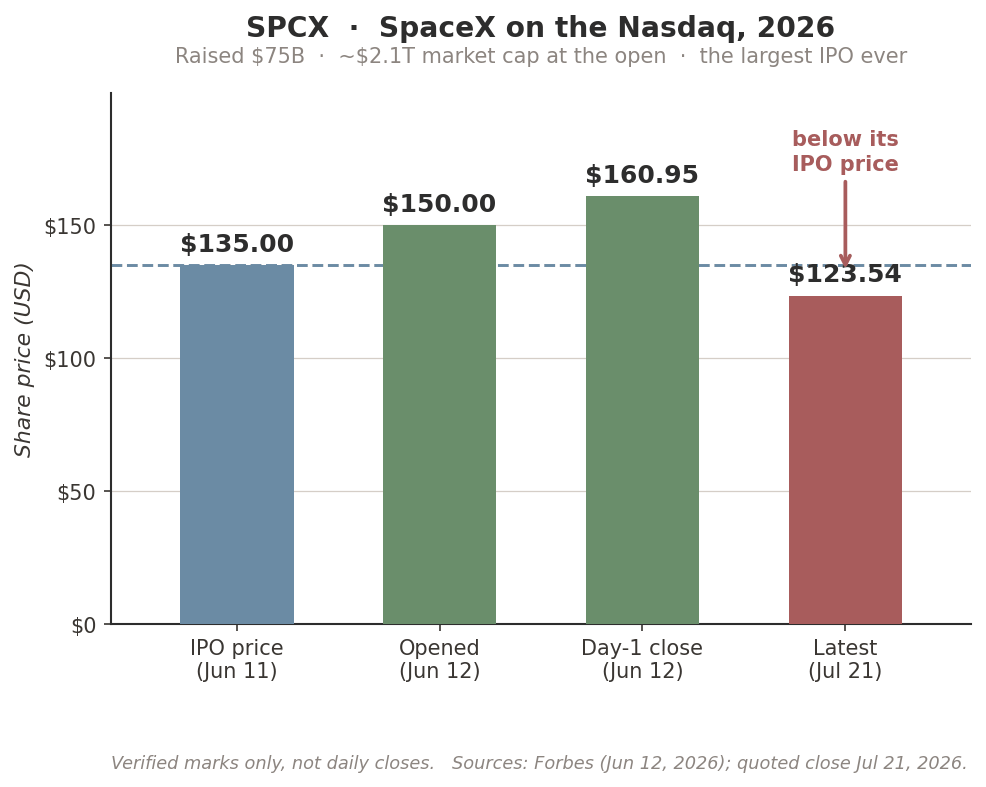
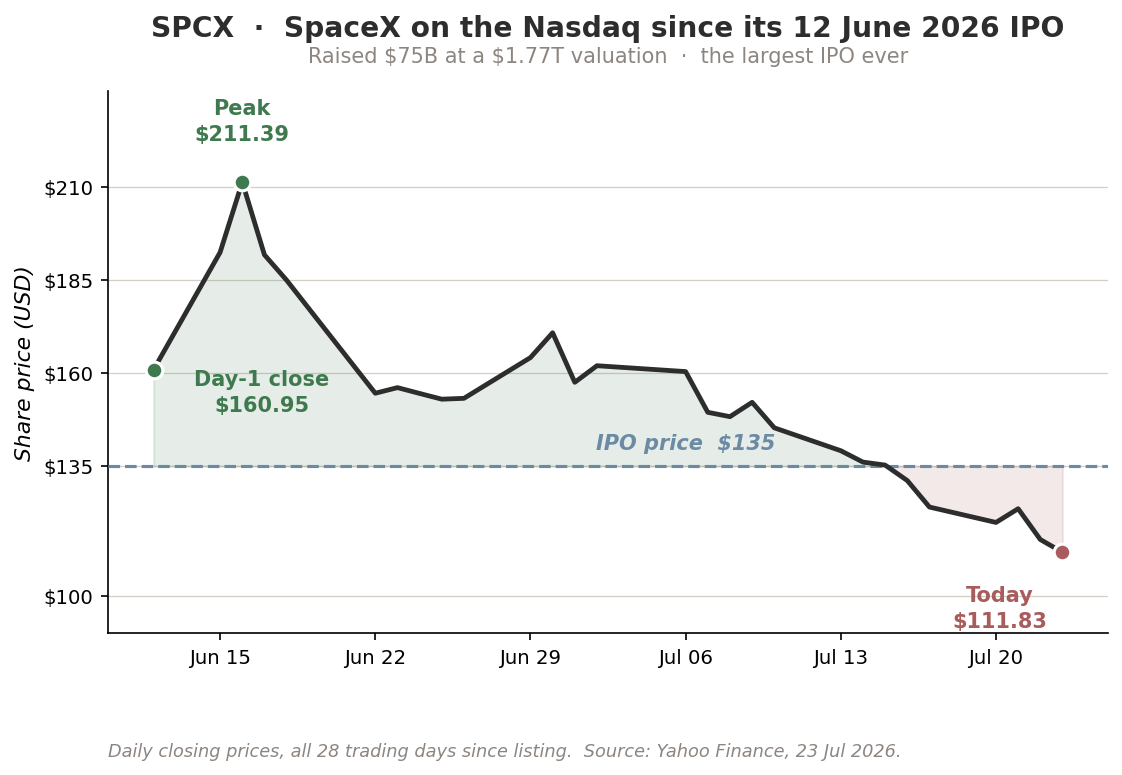
ch08: replace the SPCX four-bar summary with a real daily-close line chart covering all 28 trading days since the 12 Jun 2026 IPO (Yahoo Finance); update slide numbers to the 23 Jul close

diff --git a/econ2316/ch08-costs-of-production/index.html b/econ2316/ch08-costs-of-production/index.html
@@ -3353,9 +3353,9 @@
 <!-- 4 · SpaceX IPO — UPDATED: it happened, June 2026 -->
 <section id="fyi-spacex-ipo">
   <h2><i class="fa-solid fa-rocket" style="color: var(--secondary-color);"></i> SpaceX Went Public &mdash; June 2026 <span style="display: inline-block; padding: 0 6px; border-radius: 4px; background: var(--muted-color); color: #ffffff; font-size: 9pt; font-weight: 700; letter-spacing: 0.08em; vertical-align: middle;">FYI</span></h2>
-  <div style="display: grid; grid-template-columns: 1.15fr 1fr; gap: 16px; align-items: center;">
+  <div style="display: grid; grid-template-columns: 1.3fr 1fr; gap: 16px; align-items: center;">
     <div style="text-align: center;">
-      <img alt="Bar chart of SPCX share price at four verified marks: IPO price 135 dollars on June 11, opened at 150 dollars on June 12, closed day one at 160.95 dollars, and 123.54 dollars on July 21 — below the IPO price." src="figures/fig-spacex-ipo-price.png" style="width: 100%; max-height: 330px; object-fit: contain;">
+      <img alt="Line chart of SPCX daily closing prices across all 28 trading days since the 12 June 2026 IPO. The stock closed its first day at 160.95 dollars, well above the 135 dollar IPO price, then climbed to a peak close of 211.39 dollars on 16 June. From there it fell steadily through late June and July, crossing back below the 135 dollar IPO price around 14 July, and closing at 111.83 dollars on 23 July. A dashed reference line marks the 135 dollar IPO price; the area above it is shaded green and the area below it shaded red." src="figures/fig-spacex-ipo-price.png" style="width: 100%; max-height: 330px; object-fit: contain;">
     </div>
     <div style="display: flex; flex-direction: column; gap: 7px;">
       <div style="background: #f0f5f8; border-radius: 9px; padding: 9px 14px; border-left: 4px solid var(--secondary-color);">
@@ -3365,14 +3365,14 @@
         <p style="font-size: 11.5pt; line-height: 1.4; margin: 0;"><strong>What it buys:</strong> Starship, the Starlink constellation, and Mars &mdash; capital-hungry bets with payoffs decades out.</p>
       </div>
       <div style="background: #fdf3f3; border-radius: 9px; padding: 9px 14px; border-left: 4px solid var(--danger-color);">
-        <p style="font-size: 11.5pt; line-height: 1.4; margin: 0;"><strong>The price of the money:</strong> quarterly disclosure and shareholder pressure &mdash; which sit awkwardly against a Mars timeline. And within six weeks the stock traded <strong>below its IPO price</strong>.</p>
+        <p style="font-size: 11.5pt; line-height: 1.4; margin: 0;"><strong>The price of the money:</strong> quarterly disclosure and shareholder pressure &mdash; which sit awkwardly against a Mars timeline. It peaked at <strong>\$211</strong> four days in, then fell; by 23 July it traded at <strong>\$111.83</strong> &mdash; <strong>17% below its IPO price</strong> and <strong>47% off the peak</strong>.</p>
       </div>
     </div>
   </div>
   <div class="key-result" style="margin-top: 8px; padding: 7px 14px;">
     <p style="margin: 0; font-size: 11.5pt; line-height: 1.4;"><strong>\$75B in a single morning.</strong> Sam cannot raise that in a lifetime of burger sales &mdash; and SpaceX raised it while <em>still</em> unprofitable in 2025. That is the access asymmetry, in one transaction.</p>
   </div>
-  <aside class="notes">UPDATED 2026-07-22 — this slide replaces the ECON 1116 version, which asked "Why WOULD SpaceX go public?" That question is now obsolete: SpaceX listed on 12 June 2026. VERIFIED FACTS (Forbes live coverage, 12 Jun 2026): IPO priced at \$135/share, ~555.6M shares, raising ~\$75B; opened at \$150; day-one close \$160.95 (+19%); market cap ~\$2.1T at the open, making it roughly the seventh-largest listed firm in the world. The figure shows ONLY these verified marks plus the quoted close of \$123.54 on 21 Jul 2026 — it is deliberately NOT a fabricated daily price path. THE TEACHING MOVES: (1) \$75B raised in one morning versus Sam's bank loan — the access asymmetry made concrete; (2) SpaceX recorded a net LOSS in 2025 and still raised this, so capital follows expected future cash flow, not current profit; (3) the stock is already below its \$135 IPO price, which sets up the Cisco slide two ahead — a great company at the wrong price is a bad investment. CAUTION: the \$123.54 quote is a moving number; re-check it before lecture, or present it as "as of late July 2026". The figure is regenerated by figures/_mk_spacex_ipo_price.py — edit the four values there and re-run.</aside>
+  <aside class="notes">UPDATED 2026-07-23 &mdash; this slide replaces the ECON 1116 version, which asked "Why WOULD SpaceX go public?" That question is obsolete: SpaceX listed on 12 June 2026. The figure is now a LINE CHART of every daily close since listing (28 trading days, Yahoo Finance, pulled 23 Jul 2026) rather than the four-bar summary it replaced &mdash; regenerate with figures/_mk_spacex_ipo_price.py, which carries the data inline. VERIFIED FACTS (Forbes, 12 Jun 2026): priced at \$135/share, ~555.6M shares, raising ~\$75B at a \$1.77T valuation; opened \$150; day-one close \$160.95 (+19%); ~\$2.1T market cap at the open. THE ARC TO WALK: day-one pop to \$160.95, peak close \$211.39 on 16 June (four trading days in), then a steady slide that crosses back below the \$135 IPO price around 14 July, closing \$111.83 on 23 July &mdash; 17% below the IPO price and 47% off the peak. TEACHING MOVES: (1) \$75B raised in a single morning versus Sam waiting on a loan officer &mdash; the access asymmetry made concrete; (2) SpaceX booked a net LOSS in 2025 and still raised it, so capital follows EXPECTED FUTURE cash flow, not current profit; (3) the shaded crossover is the live setup for the Cisco slide two ahead &mdash; a great company at the wrong price is a bad investment, and here the "wrong price" was six weeks ago, not the year 2000. Ask the room: was \$211 ever a defensible price for this company, and what would you have needed to believe? CAUTION: the closing price moves daily &mdash; re-pull before lecture or present it as "as of late July 2026".</aside>
 </section>
 
 <!-- 5 · Cisco -->

diff --git a/econ2316/ch08-costs-of-production/presentation.html b/econ2316/ch08-costs-of-production/presentation.html
@@ -3353,9 +3353,9 @@
 <!-- 4 · SpaceX IPO — UPDATED: it happened, June 2026 -->
 <section id="fyi-spacex-ipo">
   <h2><i class="fa-solid fa-rocket" style="color: var(--secondary-color);"></i> SpaceX Went Public &mdash; June 2026 <span style="display: inline-block; padding: 0 6px; border-radius: 4px; background: var(--muted-color); color: #ffffff; font-size: 9pt; font-weight: 700; letter-spacing: 0.08em; vertical-align: middle;">FYI</span></h2>
-  <div style="display: grid; grid-template-columns: 1.15fr 1fr; gap: 16px; align-items: center;">
+  <div style="display: grid; grid-template-columns: 1.3fr 1fr; gap: 16px; align-items: center;">
     <div style="text-align: center;">
-      <img alt="Bar chart of SPCX share price at four verified marks: IPO price 135 dollars on June 11, opened at 150 dollars on June 12, closed day one at 160.95 dollars, and 123.54 dollars on July 21 — below the IPO price." src="figures/fig-spacex-ipo-price.png" style="width: 100%; max-height: 330px; object-fit: contain;">
+      <img alt="Line chart of SPCX daily closing prices across all 28 trading days since the 12 June 2026 IPO. The stock closed its first day at 160.95 dollars, well above the 135 dollar IPO price, then climbed to a peak close of 211.39 dollars on 16 June. From there it fell steadily through late June and July, crossing back below the 135 dollar IPO price around 14 July, and closing at 111.83 dollars on 23 July. A dashed reference line marks the 135 dollar IPO price; the area above it is shaded green and the area below it shaded red." src="figures/fig-spacex-ipo-price.png" style="width: 100%; max-height: 330px; object-fit: contain;">
     </div>
     <div style="display: flex; flex-direction: column; gap: 7px;">
       <div style="background: #f0f5f8; border-radius: 9px; padding: 9px 14px; border-left: 4px solid var(--secondary-color);">
@@ -3365,14 +3365,14 @@
         <p style="font-size: 11.5pt; line-height: 1.4; margin: 0;"><strong>What it buys:</strong> Starship, the Starlink constellation, and Mars &mdash; capital-hungry bets with payoffs decades out.</p>
       </div>
       <div style="background: #fdf3f3; border-radius: 9px; padding: 9px 14px; border-left: 4px solid var(--danger-color);">
-        <p style="font-size: 11.5pt; line-height: 1.4; margin: 0;"><strong>The price of the money:</strong> quarterly disclosure and shareholder pressure &mdash; which sit awkwardly against a Mars timeline. And within six weeks the stock traded <strong>below its IPO price</strong>.</p>
+        <p style="font-size: 11.5pt; line-height: 1.4; margin: 0;"><strong>The price of the money:</strong> quarterly disclosure and shareholder pressure &mdash; which sit awkwardly against a Mars timeline. It peaked at <strong>\$211</strong> four days in, then fell; by 23 July it traded at <strong>\$111.83</strong> &mdash; <strong>17% below its IPO price</strong> and <strong>47% off the peak</strong>.</p>
       </div>
     </div>
   </div>
   <div class="key-result" style="margin-top: 8px; padding: 7px 14px;">
     <p style="margin: 0; font-size: 11.5pt; line-height: 1.4;"><strong>\$75B in a single morning.</strong> Sam cannot raise that in a lifetime of burger sales &mdash; and SpaceX raised it while <em>still</em> unprofitable in 2025. That is the access asymmetry, in one transaction.</p>
   </div>
-  <aside class="notes">UPDATED 2026-07-22 — this slide replaces the ECON 1116 version, which asked "Why WOULD SpaceX go public?" That question is now obsolete: SpaceX listed on 12 June 2026. VERIFIED FACTS (Forbes live coverage, 12 Jun 2026): IPO priced at \$135/share, ~555.6M shares, raising ~\$75B; opened at \$150; day-one close \$160.95 (+19%); market cap ~\$2.1T at the open, making it roughly the seventh-largest listed firm in the world. The figure shows ONLY these verified marks plus the quoted close of \$123.54 on 21 Jul 2026 — it is deliberately NOT a fabricated daily price path. THE TEACHING MOVES: (1) \$75B raised in one morning versus Sam's bank loan — the access asymmetry made concrete; (2) SpaceX recorded a net LOSS in 2025 and still raised this, so capital follows expected future cash flow, not current profit; (3) the stock is already below its \$135 IPO price, which sets up the Cisco slide two ahead — a great company at the wrong price is a bad investment. CAUTION: the \$123.54 quote is a moving number; re-check it before lecture, or present it as "as of late July 2026". The figure is regenerated by figures/_mk_spacex_ipo_price.py — edit the four values there and re-run.</aside>
+  <aside class="notes">UPDATED 2026-07-23 &mdash; this slide replaces the ECON 1116 version, which asked "Why WOULD SpaceX go public?" That question is obsolete: SpaceX listed on 12 June 2026. The figure is now a LINE CHART of every daily close since listing (28 trading days, Yahoo Finance, pulled 23 Jul 2026) rather than the four-bar summary it replaced &mdash; regenerate with figures/_mk_spacex_ipo_price.py, which carries the data inline. VERIFIED FACTS (Forbes, 12 Jun 2026): priced at \$135/share, ~555.6M shares, raising ~\$75B at a \$1.77T valuation; opened \$150; day-one close \$160.95 (+19%); ~\$2.1T market cap at the open. THE ARC TO WALK: day-one pop to \$160.95, peak close \$211.39 on 16 June (four trading days in), then a steady slide that crosses back below the \$135 IPO price around 14 July, closing \$111.83 on 23 July &mdash; 17% below the IPO price and 47% off the peak. TEACHING MOVES: (1) \$75B raised in a single morning versus Sam waiting on a loan officer &mdash; the access asymmetry made concrete; (2) SpaceX booked a net LOSS in 2025 and still raised it, so capital follows EXPECTED FUTURE cash flow, not current profit; (3) the shaded crossover is the live setup for the Cisco slide two ahead &mdash; a great company at the wrong price is a bad investment, and here the "wrong price" was six weeks ago, not the year 2000. Ask the room: was \$211 ever a defensible price for this company, and what would you have needed to believe? CAUTION: the closing price moves daily &mdash; re-pull before lecture or present it as "as of late July 2026".</aside>
 </section>
 
 <!-- 5 · Cisco -->

diff --git a/econ2316/ch08-costs-of-production/figures/_mk_spacex_ipo_price.py b/econ2316/ch08-costs-of-production/figures/_mk_spacex_ipo_price.py
@@ -1,51 +1,68 @@
+"""SPCX daily closes since the 12 Jun 2026 IPO.
+Data: Yahoo Finance chart API, pulled 2026-07-23. Closes are real, not modelled.
+To refresh: re-pull the series and replace DATA below."""
 import matplotlib
 matplotlib.use("Agg")
 import matplotlib.pyplot as plt
+import matplotlib.dates as mdates
+from datetime import datetime
 import os
-HERE = os.path.abspath(".")
-PRIMARY="#2D2D2D"; SECONDARY="#6B8BA4"; TEXT="#3A3632"
-MUTED="#8C8580"; LINE="#D5CEC7"; DANGER="#A85C5C"; SUCCESS="#6A8E6B"
-plt.rcParams.update({
-    "font.size": 11, "axes.facecolor": "white", "figure.facecolor": "white",
-    "axes.edgecolor": PRIMARY, "axes.labelcolor": TEXT, "axes.linewidth": 1.0,
-    "xtick.color": TEXT, "ytick.color": TEXT, "legend.frameon": False,
-    "savefig.facecolor": "white", "savefig.bbox": "tight", "savefig.dpi": 150,
-})
 
-labels = ["IPO price\n(Jun 11)", "Opened\n(Jun 12)", "Day-1 close\n(Jun 12)", "Latest\n(Jul 21)"]
-vals   = [135.00, 150.00, 160.95, 123.54]
-cols   = [SECONDARY, SUCCESS, SUCCESS, DANGER]
+HERE=os.path.dirname(os.path.abspath(__file__))
+PRIMARY="#2D2D2D"; SECONDARY="#6B8BA4"; ACCENT="#C47B5A"
+MUTED="#8C8580"; LINE="#D5CEC7"; DANGER="#A85C5C"; SUCCESS="#3F7A4F"
+plt.rcParams.update({"figure.facecolor":"white","savefig.facecolor":"white",
+                     "savefig.bbox":"tight","savefig.dpi":150})
 
-fig, ax = plt.subplots(figsize=(7.4, 4.6))
-ax.bar(range(4), vals, color=cols, width=0.56, zorder=3)
-for i, v in enumerate(vals):
-    ax.text(i, v + 3.5, r"\$%.2f" % v, ha="center", va="bottom",
-            fontsize=12, fontweight="bold", color=PRIMARY, zorder=5)
+IPO_PRICE=135.00
+DATA=[('2026-06-12', 160.95), ('2026-06-15', 192.5), ('2026-06-16', 211.39), ('2026-06-17', 191.82), ('2026-06-18', 185.0), ('2026-06-22', 154.6), ('2026-06-23', 156.11), ('2026-06-24', 154.54), ('2026-06-25', 153.0), ('2026-06-26', 153.23), ('2026-06-29', 164.19), ('2026-06-30', 170.86), ('2026-07-01', 157.54), ('2026-07-02', 162.0), ('2026-07-06', 160.42), ('2026-07-07', 149.47), ('2026-07-08', 148.3), ('2026-07-09', 152.16), ('2026-07-10', 145.3), ('2026-07-13', 139.14), ('2026-07-14', 136.08), ('2026-07-15', 135.27), ('2026-07-16', 131.11), ('2026-07-17', 123.99), ('2026-07-20', 119.85), ('2026-07-21', 123.54), ('2026-07-22', 115.26), ('2026-07-23', 111.83)]
 
-ax.axhline(135, color=SECONDARY, ls="--", lw=1.4, zorder=2)
-# (no dashed-line label: bar 1 is already labelled "IPO price", and the
-# dashed reference line visibly extends from its top)
+dates=[datetime.strptime(d,"%Y-%m-%d") for d,_ in DATA]
+close=[c for _,c in DATA]
 
-ax.text(3.0, 186, "below its\nIPO price", ha="center", va="top",
-        fontsize=10, color=DANGER, fontweight="bold", linespacing=1.3, zorder=6)
-ax.annotate("", xy=(3.0, 132), xytext=(3.0, 168),
-            arrowprops=dict(arrowstyle="->", color=DANGER, lw=1.8), zorder=6)
+fig,ax=plt.subplots(figsize=(8.6,4.7))
 
-ax.set_xticks(range(4)); ax.set_xticklabels(labels, fontsize=10)
-ax.set_xlim(-0.62, 3.62)
-ax.set_ylim(0, 200)
-ax.set_yticks([0, 50, 100, 150])
-ax.set_yticklabels([r"\$0", r"\$50", r"\$100", r"\$150"], fontsize=10)
-ax.set_ylabel("Share price (USD)", fontsize=10.5, fontstyle="italic")
-ax.set_title("SPCX  ·  SpaceX on the Nasdaq, 2026", fontsize=13.5,
-             fontweight="bold", color=PRIMARY, pad=27)
-ax.text(0.5, 1.05, r"Raised \$75B  ·  ~\$2.1T market cap at the open  ·  the largest IPO ever",
+# shade above / below the IPO price
+ax.fill_between(dates, close, IPO_PRICE, where=[c>=IPO_PRICE for c in close],
+                color=SUCCESS, alpha=0.13, interpolate=True, zorder=1)
+ax.fill_between(dates, close, IPO_PRICE, where=[c<IPO_PRICE for c in close],
+                color=DANGER, alpha=0.13, interpolate=True, zorder=1)
+
+ax.axhline(IPO_PRICE, color=SECONDARY, ls="--", lw=1.5, zorder=3)
+ax.plot(dates, close, color=PRIMARY, lw=2.3, zorder=4)
+
+imax=close.index(max(close))
+pts=[(0,"Day-1 close",  52, -20, SUCCESS),
+     (imax,"Peak",       0, 20, SUCCESS),
+     (len(close)-1,"Today", -30, -36, DANGER)]
+for i,lbl,dx,dy,col in pts:
+    ax.plot(dates[i], close[i], "o", color=col, markersize=8,
+            markeredgecolor="white", markeredgewidth=1.5, zorder=6)
+    ax.annotate(f"{lbl}\n\\${close[i]:,.2f}", xy=(dates[i],close[i]),
+                xytext=(dx,dy), textcoords="offset points",
+                fontsize=10, fontweight="bold", color=col,
+                ha="center", zorder=7, linespacing=1.35)
+
+ax.text(dates[len(dates)//2], IPO_PRICE+3.5, r"IPO price  \$135",
+        fontsize=10, color=SECONDARY, fontweight="bold",
+        fontstyle="italic", ha="center", va="bottom", zorder=5)
+
+ax.set_title("SPCX  ·  SpaceX on the Nasdaq since its 12 June 2026 IPO",
+             fontsize=13.5, fontweight="bold", color=PRIMARY, pad=26)
+ax.text(0.5,1.045, r"Raised \$75B at a \$1.77T valuation  ·  the largest IPO ever",
         transform=ax.transAxes, ha="center", va="bottom", fontsize=10, color=MUTED)
-ax.text(0.0, -0.245, "Verified marks only, not daily closes.   Sources: Forbes (Jun 12, 2026); quoted close Jul 21, 2026.",
-        transform=ax.transAxes, ha="left", va="top", fontsize=8.5, color=MUTED, fontstyle="italic")
+ax.set_ylabel("Share price (USD)", fontsize=10.5, fontstyle="italic")
+ax.set_ylim(90, 236)
+ax.set_yticks([100,135,160,185,210])
+ax.set_yticklabels([r"\$100",r"\$135",r"\$160",r"\$185",r"\$210"], fontsize=9.5)
+ax.xaxis.set_major_locator(mdates.WeekdayLocator(byweekday=0, interval=1))
+ax.xaxis.set_major_formatter(mdates.DateFormatter("%b %d"))
+plt.setp(ax.get_xticklabels(), fontsize=9.5)
 ax.spines["top"].set_visible(False); ax.spines["right"].set_visible(False)
-ax.grid(axis="y", color=LINE, lw=0.6, zorder=0)
-ax.set_axisbelow(True)
-plt.savefig(os.path.join(HERE, "fig-spacex-ipo-price.png"))
+ax.grid(axis="y", color=LINE, lw=0.6); ax.set_axisbelow(True)
+ax.text(0.0,-0.20,"Daily closing prices, all %d trading days since listing.  Source: Yahoo Finance, 23 Jul 2026." % len(DATA),
+        transform=ax.transAxes, ha="left", va="top", fontsize=8.5,
+        color=MUTED, fontstyle="italic")
+plt.savefig(os.path.join(HERE,"fig-spacex-ipo-price.png"))
 plt.close(fig)
-print("ok")
+print("wrote fig-spacex-ipo-price.png")
